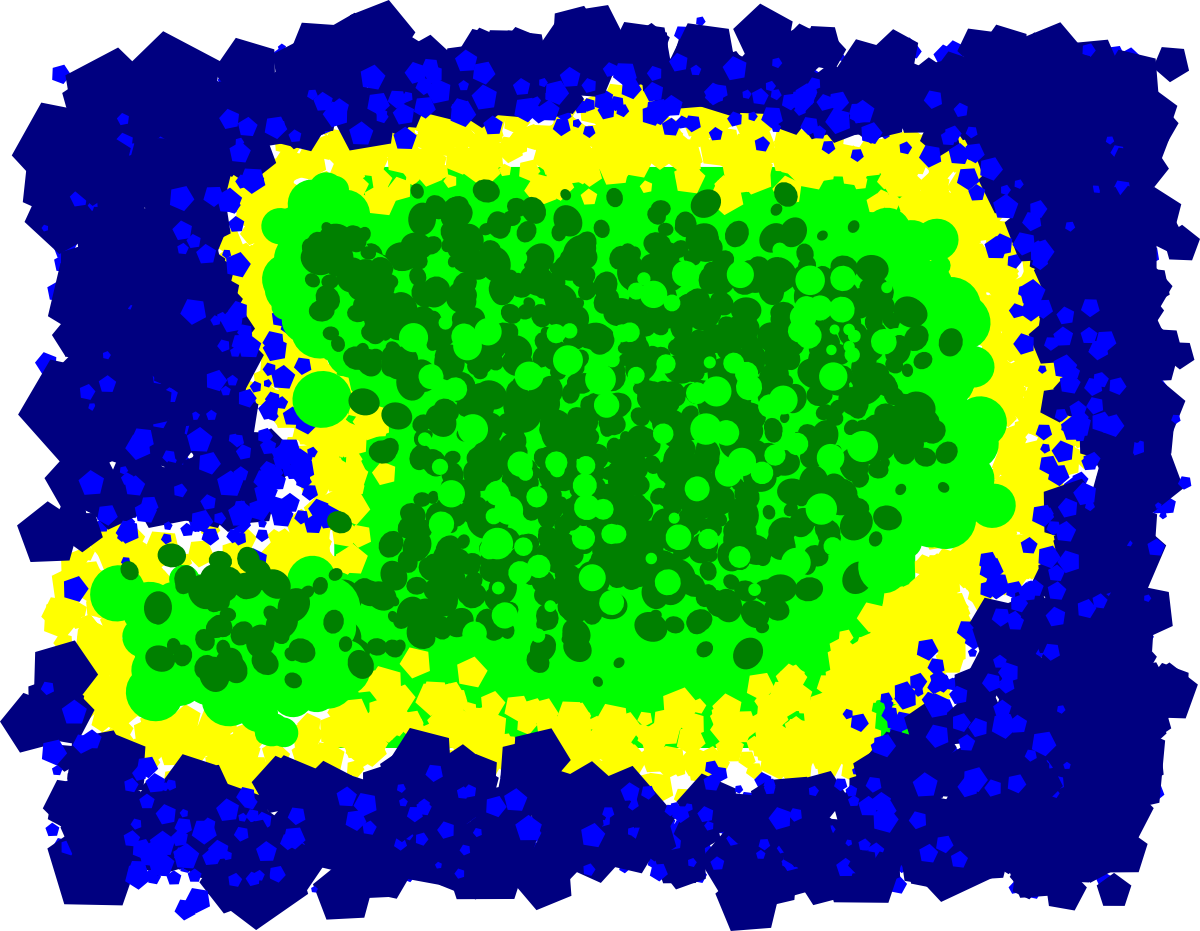
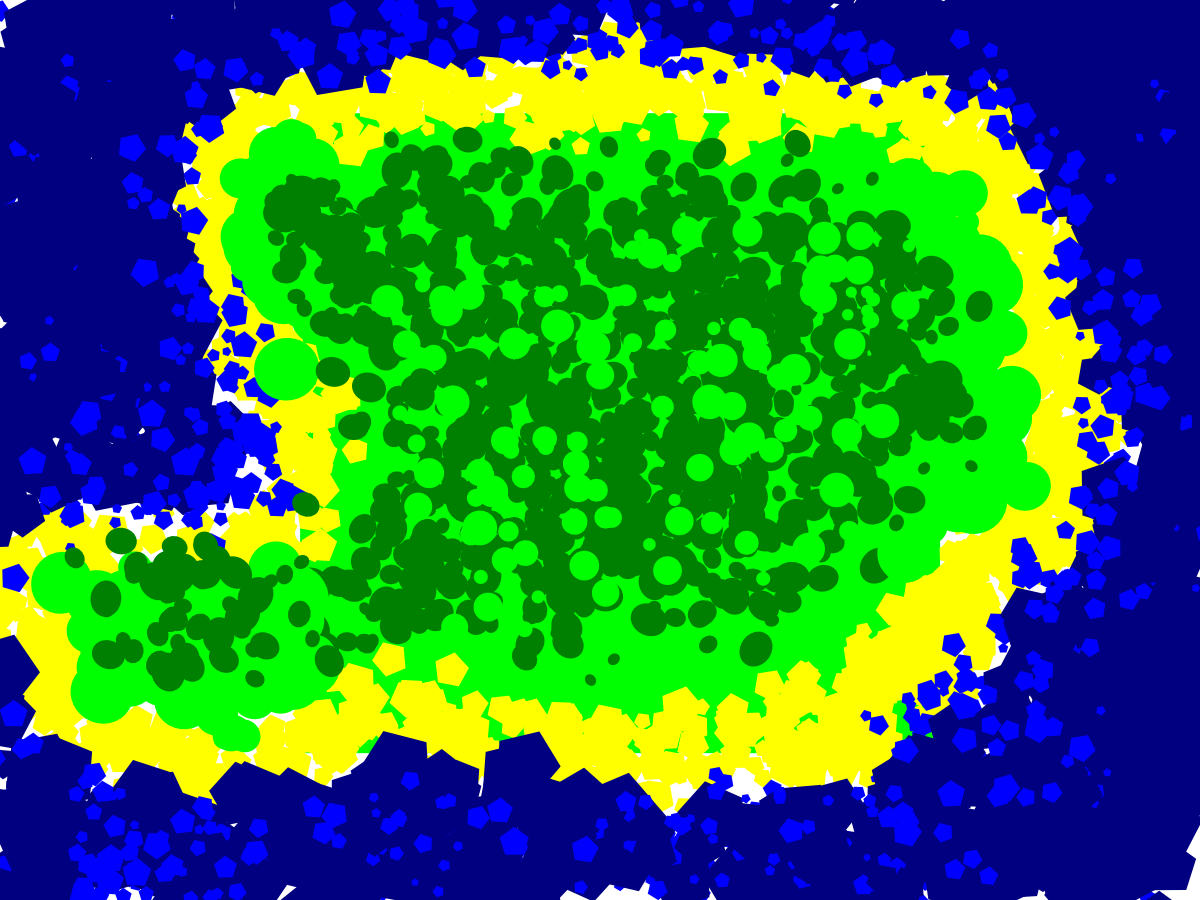
Didn't export the background correctly

diff --git a/MathIsland.py b/MathIsland.py
@@ -69,6 +69,9 @@ class MathIsland:
 
         bgimage = pygame.image.load("content/miscassets/background.png").convert()
 
+        maptopleft = 340
+        maptopright = 150
+
         while self.running:
             # Pump GTK messages.
             while Gtk.events_pending():
@@ -97,8 +100,8 @@ class MathIsland:
             for x in range(len(self.board)):
                 for y in range(len(self.board[0])):
                     screen.blit(self.board[x][y], 
-                            (370 + self.board_x + self.tile_size * x,
-                             210 + self.board_y + self.tile_size * y))
+                            (maptopleft + self.board_x + self.tile_size * x,
+                             maptopright + self.board_y + self.tile_size * y))
 
             #TODO: draw the fuel, other special objects
 
@@ -108,7 +111,7 @@ class MathIsland:
                     False, 
                     pygame.Color(0,0,0) )
             fuel_text_rect = fuel_text_obj.get_rect()
-            fuel_text_rect.topleft = (self.level.width * 64 + 370, 10)
+            fuel_text_rect.topleft = (0,0)
             screen.blit(fuel_text_obj, fuel_text_rect)
 
             #draw the player
